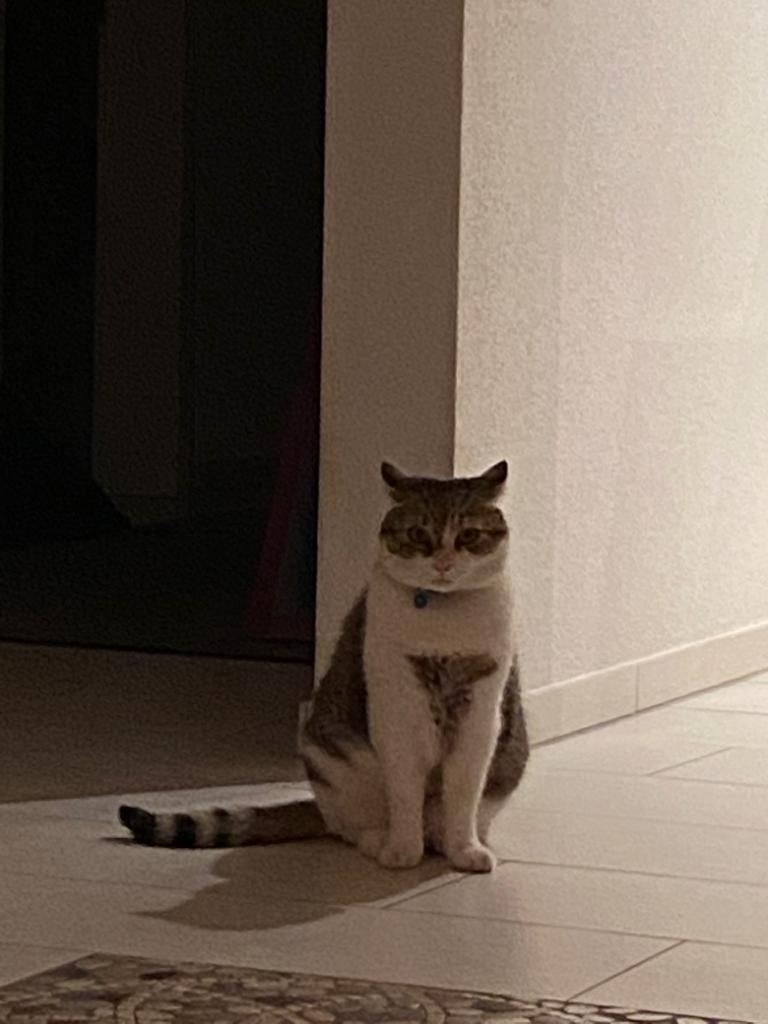
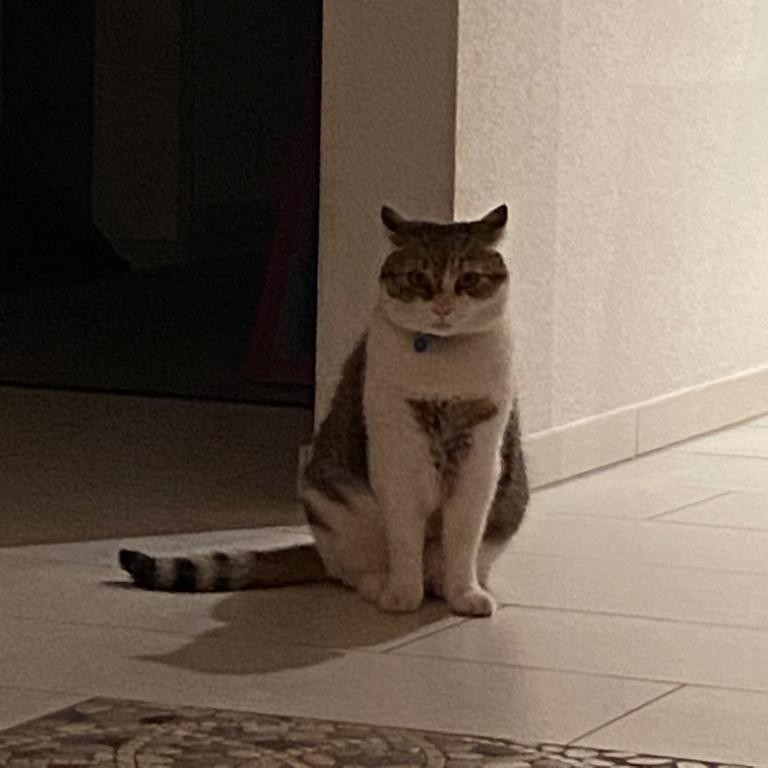
working example with friend request animations

diff --git a/2.assigment/Ynetwork/resources/js/playground.js b/2.assigment/Ynetwork/resources/js/playground.js
@@ -11,6 +11,32 @@ const $formular = utils.$('.formular-container');
 const [ $path1, $path2 ] = utils.$('polygon');
 
 
+    
+
+
+const newMessage = () =>animate('.notification-dot', {
+  opacity: [{from: 0.0, to: 1.0}],
+  scale: [{from: 0.0, to: 1.0}],
+  ease: spring({
+    bounce: 0.59,
+    duration: 358
+  }),
+  delay: 2000,
+});
+
+if (window.pendingFriendRequests   > 0){  
+newMessage().play();
+}
+animate('.frcard', {
+  scale: [{to: 1.2}, {to: 1}],
+  rotate: [{to: 3}, {to: 0}],
+  background: [{to: '#ff0202ff'}, {to: '#efefefff'}],
+  duration: 1000,
+  
+  easing: 'easeOutQuad',
+  delay: stagger(1000),
+});
+
  const turn = () => animate(chars, {
   // Property keyframes
   y: [

diff --git a/2.assigment/Ynetwork/resources/views/user/for-you.blade.php b/2.assigment/Ynetwork/resources/views/user/for-you.blade.php
@@ -42,6 +42,11 @@
             color: #555;
         }
     </style>
+    <script>
+    window.pendingFriendRequests = {{ $pendingFriendRequests ?? 0 }};
+</script>
+    @vite(['resources/css/app.css', 'resources/js/app.js'])
+
 </head>
 
 <header class="w3-light-blue w3-padding-small w3-card w3-top w3-bottombar w3-border-black">
@@ -66,9 +71,20 @@
 
             </form>
         </div>
+        
 
 
         <div class="w3-cell w3-cell-middle w3-right-align" style="width:25%;">
+            <span class="notification-dot" style="position: absolute;
+                                        top: 55px;
+                                        right: 55px;
+                                        width: 17px;
+                                        height: 17px;
+                                        background-color: #f44336; 
+                                        border-radius: 50%;
+                                        border: 2px solid #a3cce8;
+                                        z-index: 1;
+                                        opacity: 0;"></span>
             <div class="w3-dropdown-hover w3-right w3-transparent">
                 <img data-user-id="{{ auth()->user()->id }}" src="{{ auth()->user()->profile_picture }}"
                     alt="User profile" class="w3-image w3-circle"

diff --git a/2.assigment/Ynetwork/resources/views/user/profile.blade.php b/2.assigment/Ynetwork/resources/views/user/profile.blade.php
@@ -87,6 +87,8 @@
 
     <script src="{{ asset('js/get-user-avatar.js') }}"></script>
     <script src="{{ asset('js/search-users.js') }}"></script>
+    @vite(['resources/css/app.css', 'resources/js/app.js'])
+
 </header>
 
 
@@ -156,7 +158,7 @@
                                 @endphp
 
                                 @forelse($friendRequests as $request)
-                                    <div class="w3-card w3-light-grey w3-round w3-margin-bottom w3-padding-small">
+                                    <div class="frcard w3-card w3-round w3-margin-bottom w3-padding-small">
                                         <span>{{ $request->sender->first_name }} {{ $request->sender->last_name }}</span>
                                         <div class="w3-margin-top">
                                             <img src="{{ asset($request->sender->profile_picture) }}" alt="Avatar" class="w3-circle w3-margin-right"

diff --git a/2.assigment/Ynetwork/app/Providers/AppServiceProvider.php b/2.assigment/Ynetwork/app/Providers/AppServiceProvider.php
@@ -3,6 +3,8 @@
 namespace App\Providers;
 
 use Illuminate\Support\ServiceProvider;
+use App\Models\Friendship;
+use Illuminate\Support\Facades\View;
 
 class AppServiceProvider extends ServiceProvider
 {
@@ -19,6 +21,14 @@ class AppServiceProvider extends ServiceProvider
      */
     public function boot(): void
     {
-        //
+        View::composer('*', function ($view) {
+        if (auth()->check()) {
+            $pendingCount = Friendship::where('friend_id', auth()->id())
+                ->where('status', 'pending')
+                ->count();
+
+            $view->with('pendingFriendRequests', $pendingCount);
+        }
+    });
     }
 }
